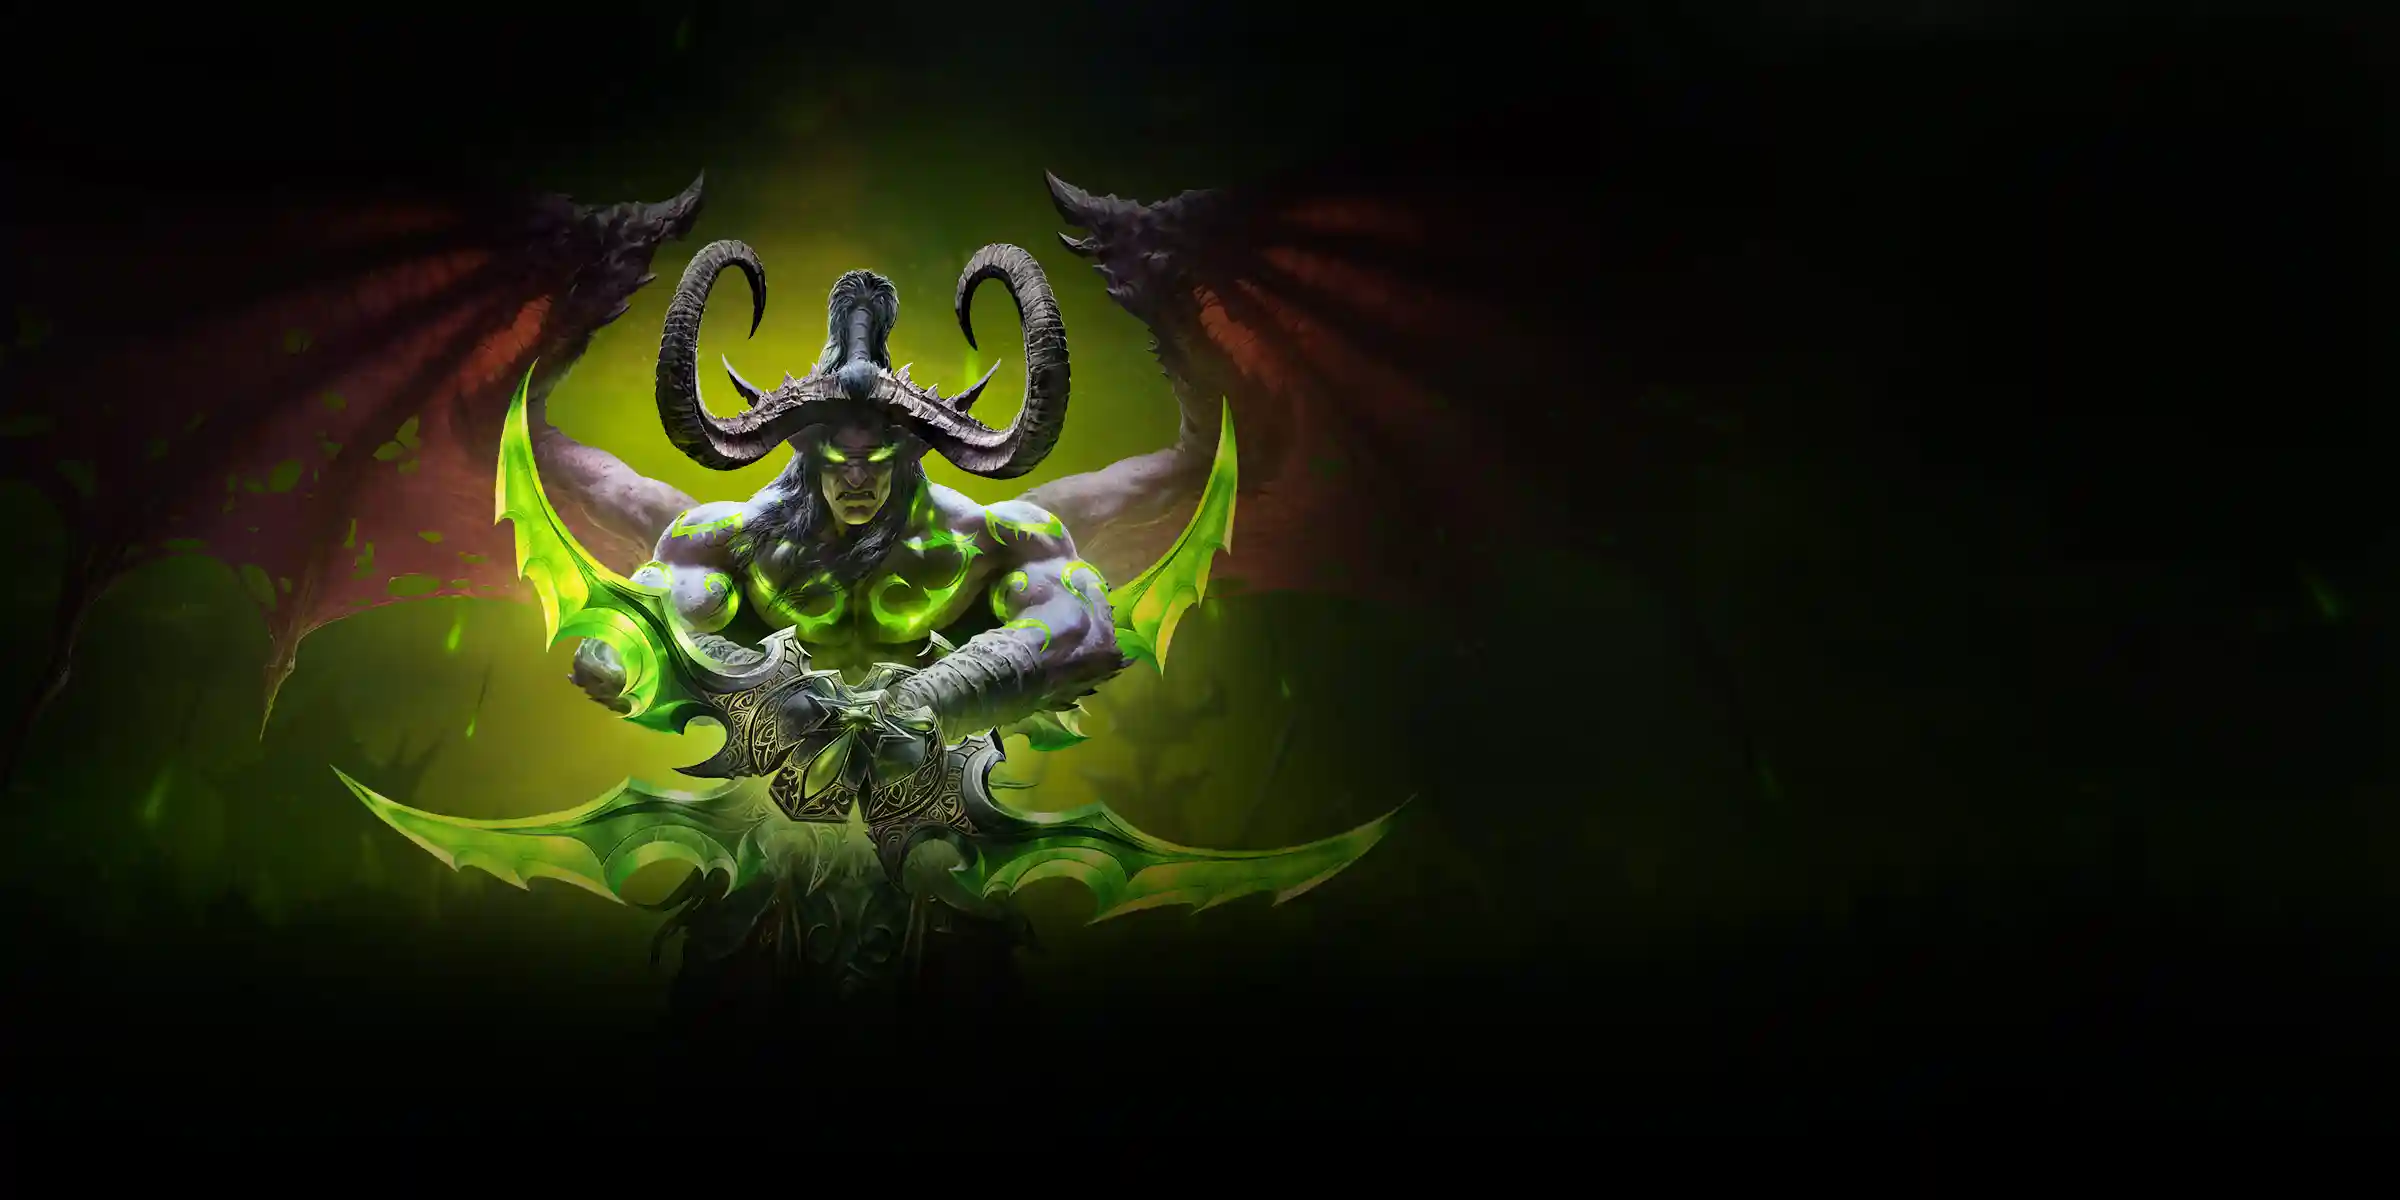
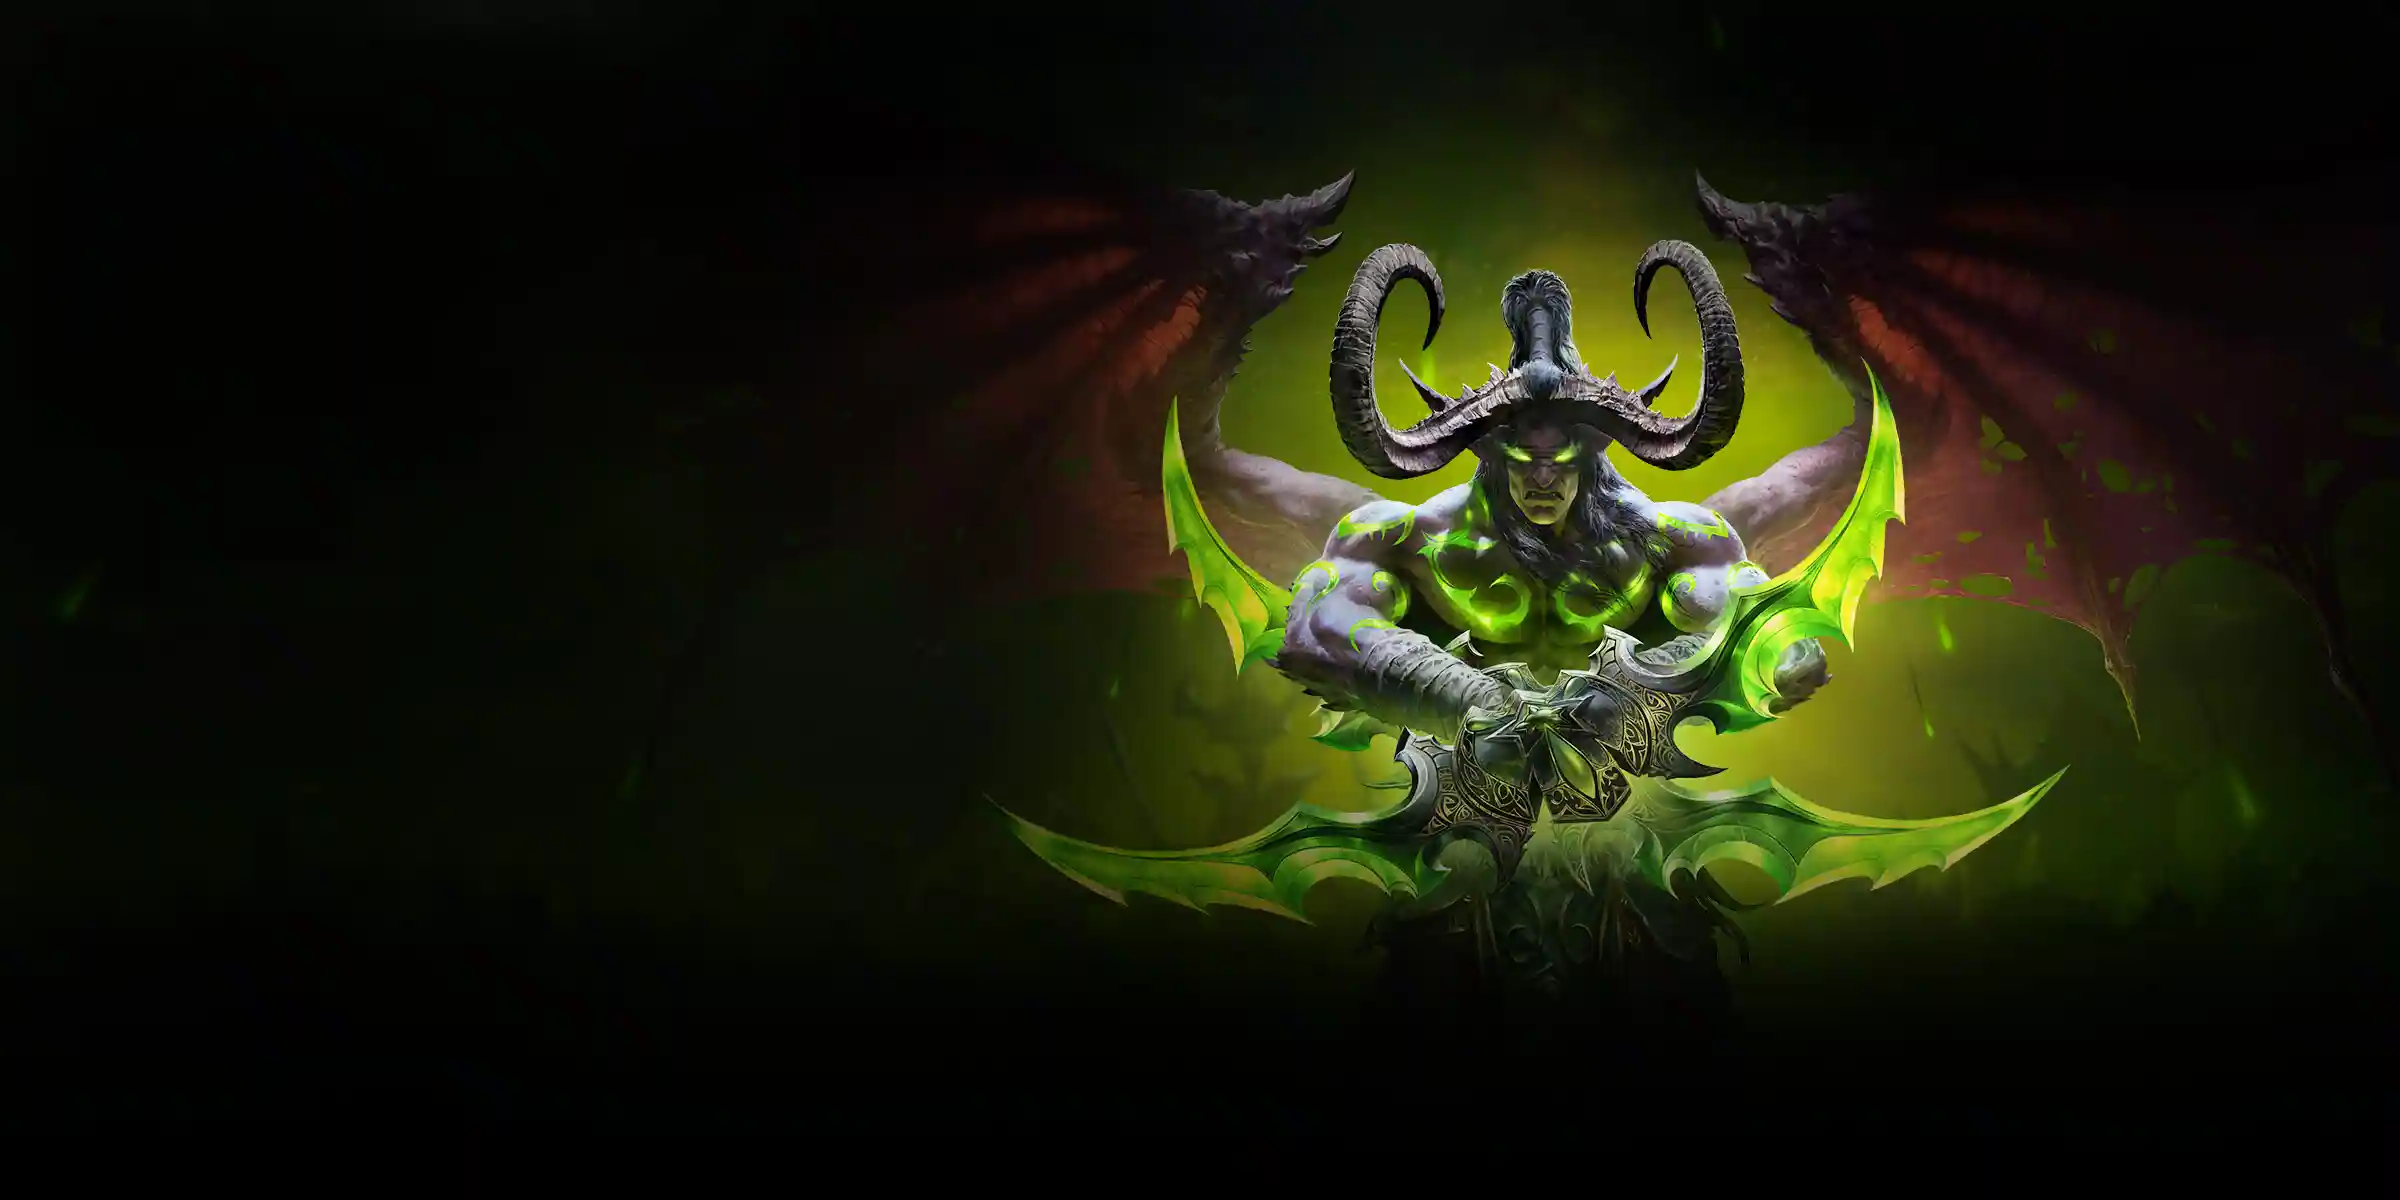
Wishlists and Honds

diff --git a/wishlists.html b/wishlists.html
@@ -67,11 +67,114 @@
 
   <!-- Content -->
   <div class="container text-muted px-4">
-
     <div class="row">
       <div class="col">
-        <h3 class="text-pdh">Wishlists</h3>
-        <p class="text-muted">Content...</p>
+        <h3 class="text-pdh mb-4">Wishlists</h3>
+        <p>Lorem ipsum dolor sit amet, consectetur adipisicing elit. Error totam dolor laudantium suscipit molestiae incidunt dolorem dignissimos quaerat repellat voluptas aperiam reiciendis eligendi, aliquam vero quasi hic quam, quos, modi.</p>
+
+        <form class="my-4">
+
+          <div class="input-group mb-3">
+            <span class="input-group-text" id="wishlist-item-10-input-group">10</span>
+            <select class="form-select bg-dark text-light" id="wishlist-item-10" onchange="checkValue('wishlist-item-10')" aria-label=" Default select example">
+              <option selected value="0">Select an item</option>
+              <option value="1">Hammer of the massive penis</option>
+              <option value="2">Gloves of the enquiring mind</option>
+              <option value="3">Shoes of teh carved fondant</option>
+            </select>
+          </div>
+
+          <div class="input-group mb-3">
+            <span class="input-group-text" id="wishlist-item-9-input-group">9</span>
+            <select class="form-select bg-dark text-light" id="wishlist-item-9" onchange="checkValue('wishlist-item-9')" aria-label="Default select example">
+              <option selected>Select an item</option>
+              <option value="1">Hammer of the massive penis</option>
+              <option value="2">Gloves of the enquiring mind</option>
+              <option value="3">Shoes of the carved fondant</option>
+            </select>
+          </div>
+
+          <div class="input-group mb-3">
+            <span class="input-group-text" id="wishlist-item-8-input-group">8</span>
+            <select class="form-select bg-dark text-light" id="wishlist-item-8" onchange="checkValue('wishlist-item-8')" aria-label="Default select example">
+              <option selected>Select an item</option>
+              <option value="1">Hammer of the massive penis</option>
+              <option value="2">Gloves of the enquiring mind</option>
+              <option value="3">Shoes of teh carved fondant</option>
+            </select>
+          </div>
+
+          <div class="input-group mb-3">
+            <span class="input-group-text" id="wishlist-item-7-input-group">7</span>
+            <select class="form-select bg-dark text-light" id="wishlist-item-7" onchange="checkValue('wishlist-item-7')" aria-label="Default select example">
+              <option selected>Select an item</option>
+              <option value="1">Hammer of the massive penis</option>
+              <option value="2">Gloves of the enquiring mind</option>
+              <option value="3">Shoes of teh carved fondant</option>
+            </select>
+          </div>
+
+          <div class="input-group mb-3">
+            <span class="input-group-text" id="wishlist-item-6-input-group">6</span>
+            <select class="form-select bg-dark text-light" id="wishlist-item-6" onchange="checkValue('wishlist-item-6')" aria-label="Default select example">
+              <option selected>Select an item</option>
+              <option value="1">Hammer of the massive penis</option>
+              <option value="2">Gloves of the enquiring mind</option>
+              <option value="3">Shoes of the carved fondant</option>
+            </select>
+          </div>
+
+          <div class="input-group mb-3">
+            <span class="input-group-text" id="wishlist-item-5-input-group">5</span>
+            <select class="form-select bg-dark text-light" id="wishlist-item-5" onchange="checkValue('wishlist-item-5')" aria-label="Default select example">
+              <option selected>Select an item</option>
+              <option value="1">Hammer of the massive penis</option>
+              <option value="2">Gloves of the enquiring mind</option>
+              <option value="3">Shoes of the carved fondant</option>
+            </select>
+          </div>
+
+          <div class="input-group mb-3">
+            <span class="input-group-text" id="wishlist-item-4-input-group">4</span>
+            <select class="form-select bg-dark text-light" id="wishlist-item-4" onchange="checkValue('wishlist-item-4')" aria-label="Default select example">
+              <option selected>Select an item</option>
+              <option value="1">Hammer of the massive penis</option>
+              <option value="2">Gloves of the enquiring mind</option>
+              <option value="3">Shoes of the carved fondant</option>
+            </select>
+          </div>
+
+          <div class="input-group mb-3">
+            <span class="input-group-text" id="wishlist-item-3-input-group">3</span>
+            <select class="form-select bg-dark text-light" id="wishlist-item-3" onchange="checkValue('wishlist-item-3')" aria-label="Default select example">
+              <option selected>Select an item</option>
+              <option value="1">Hammer of the massive penis</option>
+              <option value="2">Gloves of the enquiring mind</option>
+              <option value="3">Shoes of the carved fondant</option>
+            </select>
+          </div>
+
+          <div class="input-group mb-3">
+            <span class="input-group-text" id="wishlist-item-2-input-group">2</span>
+            <select class="form-select bg-dark text-light" id="wishlist-item-2" onchange="checkValue('wishlist-item-2')" aria-label="Default select example">
+              <option selected>Select an item</option>
+              <option value="1">Hammer of the massive penis</option>
+              <option value="2">Gloves of the enquiring mind</option>
+              <option value="3">Shoes of the carved fondant</option>
+            </select>
+          </div>
+
+          <div class="input-group mb-3">
+            <span class="input-group-text" id="wishlist-item-1-input-group">1</span>
+            <select class="form-select bg-dark text-light" id="wishlist-item-1" onchange="checkValue('wishlist-item-1')" aria-label="Default select example">
+              <option selected>Select an item</option>
+              <option value="1">Hammer of the massive penis</option>
+              <option value="2">Gloves of the enquiring mind</option>
+              <option value="3">Shoes of the carved fondant</option>
+            </select>
+          </div>
+          <button type="submit" class="btn btn-pdh float-end">Submit</button>
+        </form>
       </div>
     </div>
   </div>
@@ -89,6 +192,9 @@
 
   <!-- Font Awesome Icons. Load after page for performance -->
   <script src="https://kit.fontawesome.com/7d48f70d81.js" crossorigin="anonymous"></script>
+
+
+  <script src="scripts/wishlist-validation.js"></script>
 
 </body>
 

diff --git a/honds.html b/honds.html
@@ -72,7 +72,7 @@
     <div class="row">
       <div class="col-lg-4 col-sm-6">
         <div class="card bg-dark mb-4">
-          <img class="card-img-top" src="images/placeholder.png" alt="Card image cap">
+          <img class="card-img-top" src="images/jawn.jpg" alt=" Card image cap">
           <div class="card-body">
             <h5 class="card-title text-light"><i class="fa fa-crown text-warning" id="guild-master-icon" data-bs-toggle="tooltip" data-bs-placement="top" title="Guild Master"></i> Jawn</h5>
             <p class="card-text">He likes to smoke meat.</p>
@@ -81,7 +81,7 @@
       </div>
       <div class="col-lg-4 col-sm-6">
         <div class="card bg-dark mb-4">
-          <img class="card-img-top" src="images/placeholder.png" alt="Card image cap">
+          <img class="card-img-top" src="images/axgor.png" alt="Card image cap">
           <div class="card-body">
             <h5 class="card-title text-light">Axgor</h5>
             <p class="card-text">Wears dungerees at all times.</p>
@@ -90,7 +90,7 @@
       </div>
       <div class="col-lg-4 col-sm-6">
         <div class="card bg-dark mb-4">
-          <img class="card-img-top" src="images/placeholder.png" alt="Card image cap">
+          <img class="card-img-top" src="images/kriegspyre.png" alt="Card image cap">
           <div class="card-body">
             <h5 class="card-title text-light"><i class="fa fa-skull text-danger" id="raid-leader-icon" data-bs-toggle="tooltip" data-bs-placement="top" title="Raid Leader"></i> Kriegspyre</h5>
             <p class="card-text">Our raid leader. He leads raids.</p>
@@ -99,7 +99,7 @@
       </div>
       <div class="col-lg-4 col-sm-6">
         <div class="card bg-dark mb-4">
-          <img class="card-img-top" src="images/placeholder.png" alt="Card image cap">
+          <img class="card-img-top" src="images/shadowclaw.png" alt="Card image cap">
           <div class="card-body">
             <h5 class="card-title text-light">Shadowclaw</h5>
             <p class="card-text">Part man, part shrimp.</p>
@@ -108,7 +108,7 @@
       </div>
       <div class="col-lg-4 col-sm-6">
         <div class="card bg-dark mb-4">
-          <img class="card-img-top" src="images/placeholder.png" alt="Card image cap">
+          <img class="card-img-top hond-img" src="images/tcepsa.png" alt="Card image cap">
           <div class="card-body">
             <h5 class="card-title text-light">Tcepsa</h5>
             <p class="card-text">N.E.D</p>

diff --git a/styles/pdh.css b/styles/pdh.css
@@ -74,10 +74,11 @@
   right: 0;
   z-index: -1;
   display: block;
-  background-image: url('../images/burning-crusade-2.png');
   width: 100%;
   height: 100%;
+  background-image: url('../images/burning-crusade-2.png');
   background-size: cover;
+  background-position: center;
   filter: opacity(0.6) grayscale(20%);
 }
 
@@ -147,4 +148,27 @@
 
 .social-link:hover {
   color: white;
+}
+
+.form-select {
+  border-color: #373b3e;
+  ;
+}
+
+.input-group-text {
+  min-width: 2.5rem;
+  color: white;
+  background-color: #373b3e;
+  border-color: #373b3e;
+}
+
+.form-select:focus {
+  border-color: var(--pink-dark);
+  outline: 0;
+  box-shadow: 0 0 0 0.25rem rgb(147 22 111 / 25%);
+}
+
+.valid-wishlist-item {
+  background-color: var(--pink-dark);
+  border-color: var(--pink-dark);
 }

diff --git a/scripts/wishlist-validation.js b/scripts/wishlist-validation.js
@@ -1,0 +1,13 @@
+function checkValue(wishlistItem) {
+	var inputGroupId = document.getElementById(wishlistItem + '-input-group');
+	var selectId = document.getElementById(wishlistItem);
+	var value =
+		selectId.options[selectId.selectedIndex].value;
+	if (value == 0) {
+		selectId.classList.remove("valid-wishlist-item");
+		inputGroupId.classList.remove("valid-wishlist-item");
+	} else {
+		selectId.classList.add("valid-wishlist-item");
+		inputGroupId.classList.add("valid-wishlist-item");
+	}
+}
